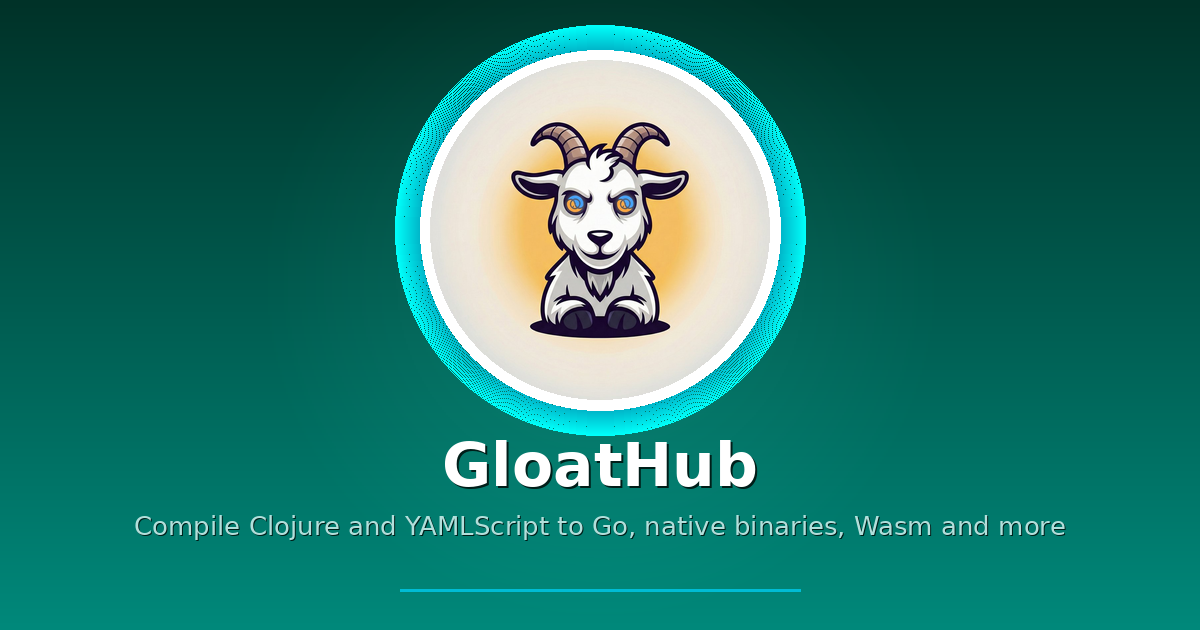
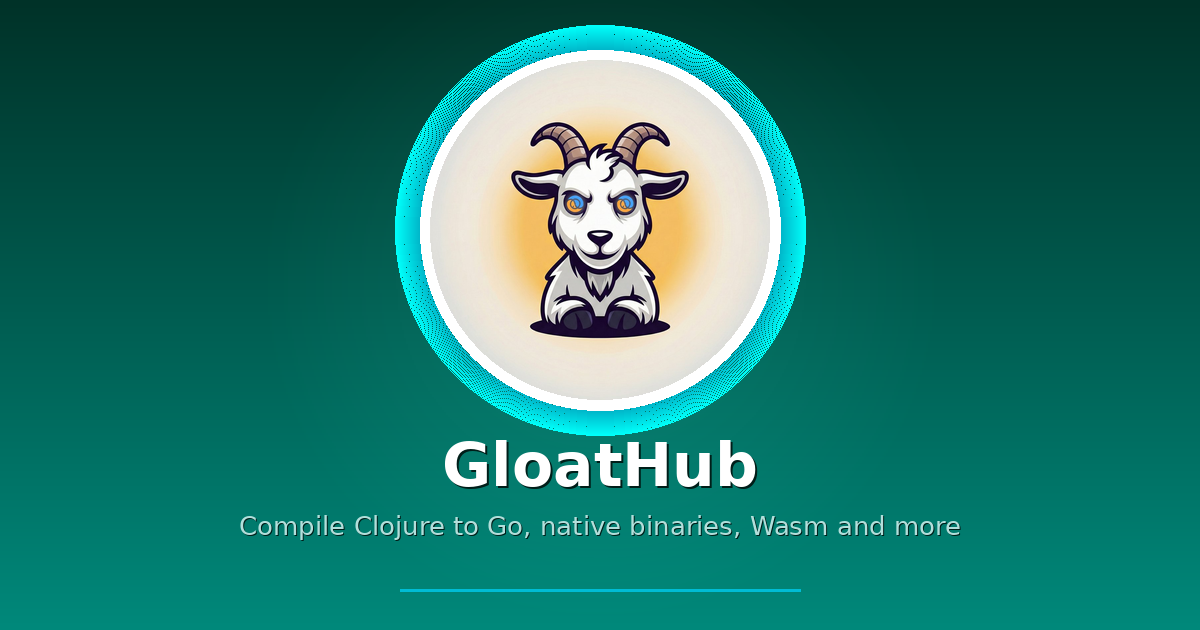
Focus GloatHub front page on Clojure

Changed region(s): [[0.0925, 0.8143, 0.8942, 0.8746]]

diff --git a/www/docs/index.md b/www/docs/index.md
@@ -5,7 +5,8 @@
        class="mascot-caption">Read all about me!</a>
   </div>
   <p class="hero-subtitle">
-    Gloat compiles Clojure & YAMLScript to Go code, native binaries and Wasm
+    Gloat (cross-)compiles Clojure code to Go code, native binaries and shared
+    libraries for 25 platforms including WebAssembly
   </p>
 </div>
 
@@ -13,16 +14,14 @@
 ## The Compilation Pipeline
 
 <div class="pipeline">
-  <code>.ys</code> <span class="arrow">→</span>
-  <code>.clj</code> <span class="arrow">→</span>
-  <code>.glj</code> <span class="arrow">→</span>
-  <code>.go</code> <span class="arrow">→</span>
-  <code>binary/wasm</code>
+  <code>foo.clj</code> <span class="arrow">→</span>
+  <code>foo.go</code> <span class="arrow">→</span>
+  <code>foo / foo.so / foo.wasm</code>
 </div>
 
-Gloat takes your **Clojure** or **YAMLScript** source code and compiles it
-through multiple stages to produce standalone executables, WebAssembly modules,
-or shared libraries; for 20+ OS/Architecture combinations.
+Gloat takes your **Clojure** source code and compiles it through multiple stages
+to produce standalone executables, WebAssembly modules, or shared libraries;
+for 20+ OS/Architecture combinations.
 
 Each intermediate format can be output for inspection or further processing.
 
@@ -34,8 +33,7 @@ Each intermediate format can be output for inspection or further processing.
     <span class="feature-icon">🚀</span>
     <h3 class="feature-title">Zero Dependencies</h3>
     <p class="feature-desc">
-      All tools (Go, Glojure, YAMLScript, Babashka, etc) auto-install on first
-      use.
+      All tools (Go, Glojure, Babashka, etc) auto-install on first use.
       No manual setup required.
     </p>
   </div>
@@ -92,18 +90,17 @@ Each intermediate format can be output for inspection or further processing.
 
 ```bash
 # Compile to native binary
-gloat hello.ys
+gloat hello.clj
 
 # Cross-compile for Windows
 gloat app.clj -o app.exe -p windows/amd64
 
 # Create WebAssembly module
-gloat program.ys -o program.wasm
+gloat program.clj -o program.wasm
 
 # Output intermediate formats
-gloat code.ys -t clj   # See generated Clojure
-gloat code.ys -t glj   # See generated Glojure
-gloat code.ys -t go    # See generated Go
+gloat code.clj -t glj  # See generated Glojure
+gloat code.clj -t go   # See generated Go
 
 # Format and syntax highlight Clojure
 gloat -F code.clj              # Format with zprint
@@ -114,14 +111,14 @@ gloat -FCw40 code.clj | less -R # Format at width 40, then highlight
 cat code.clj | gloat -FC | less -R
 
 # Create a Go build directory
-gloat code.ys -o code/
+gloat code.clj -o code/
 make -C code/ build     # Compile to binary
 ```
 
 
 ## Get Started
 
-Ready to compile your Clojure or YAMLScript code?
+Ready to compile your Clojure code?
 
 <div class="hero-cta">
   <a href="demo/" class="cta-button cta-primary">Try the Demo</a>
